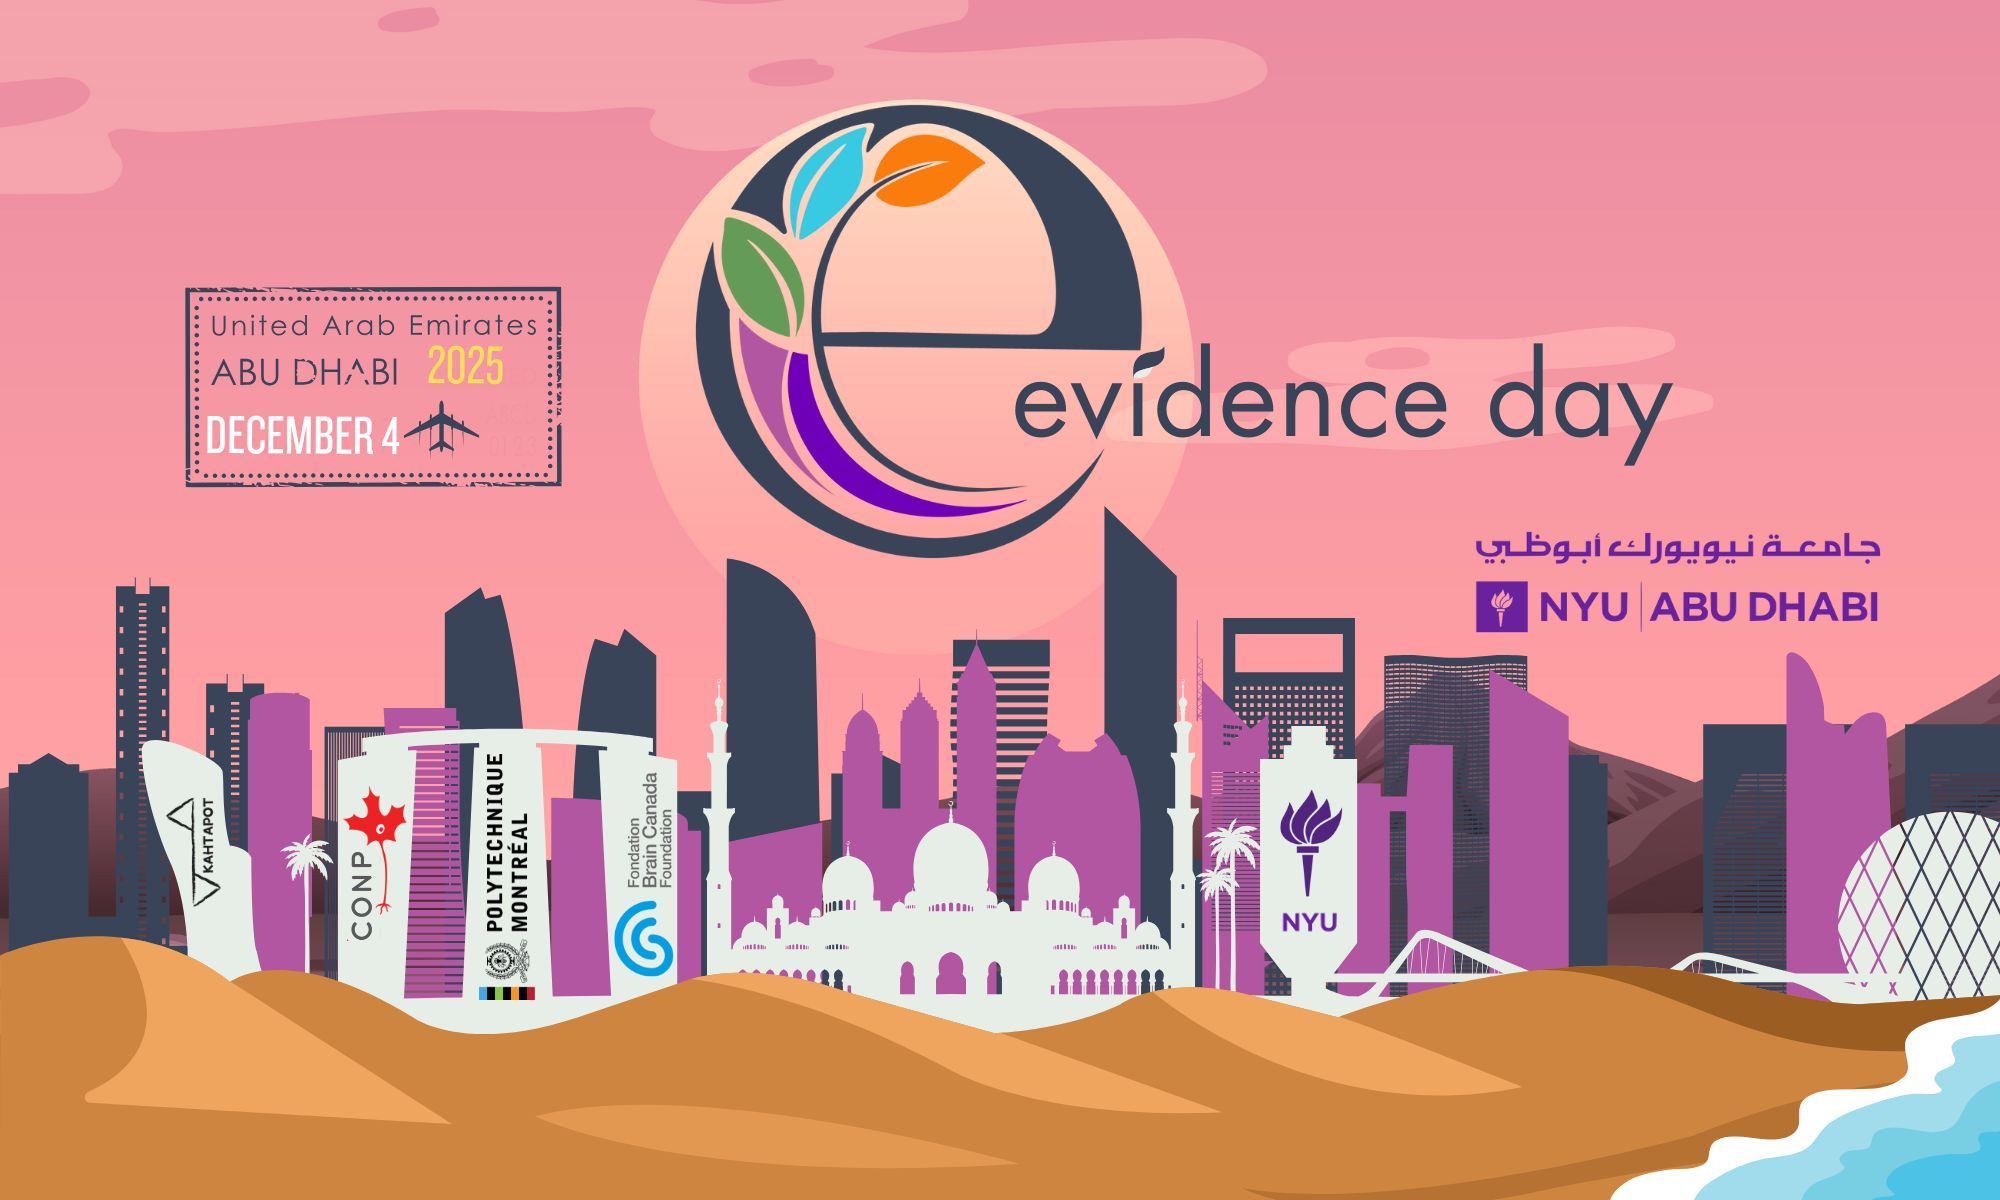
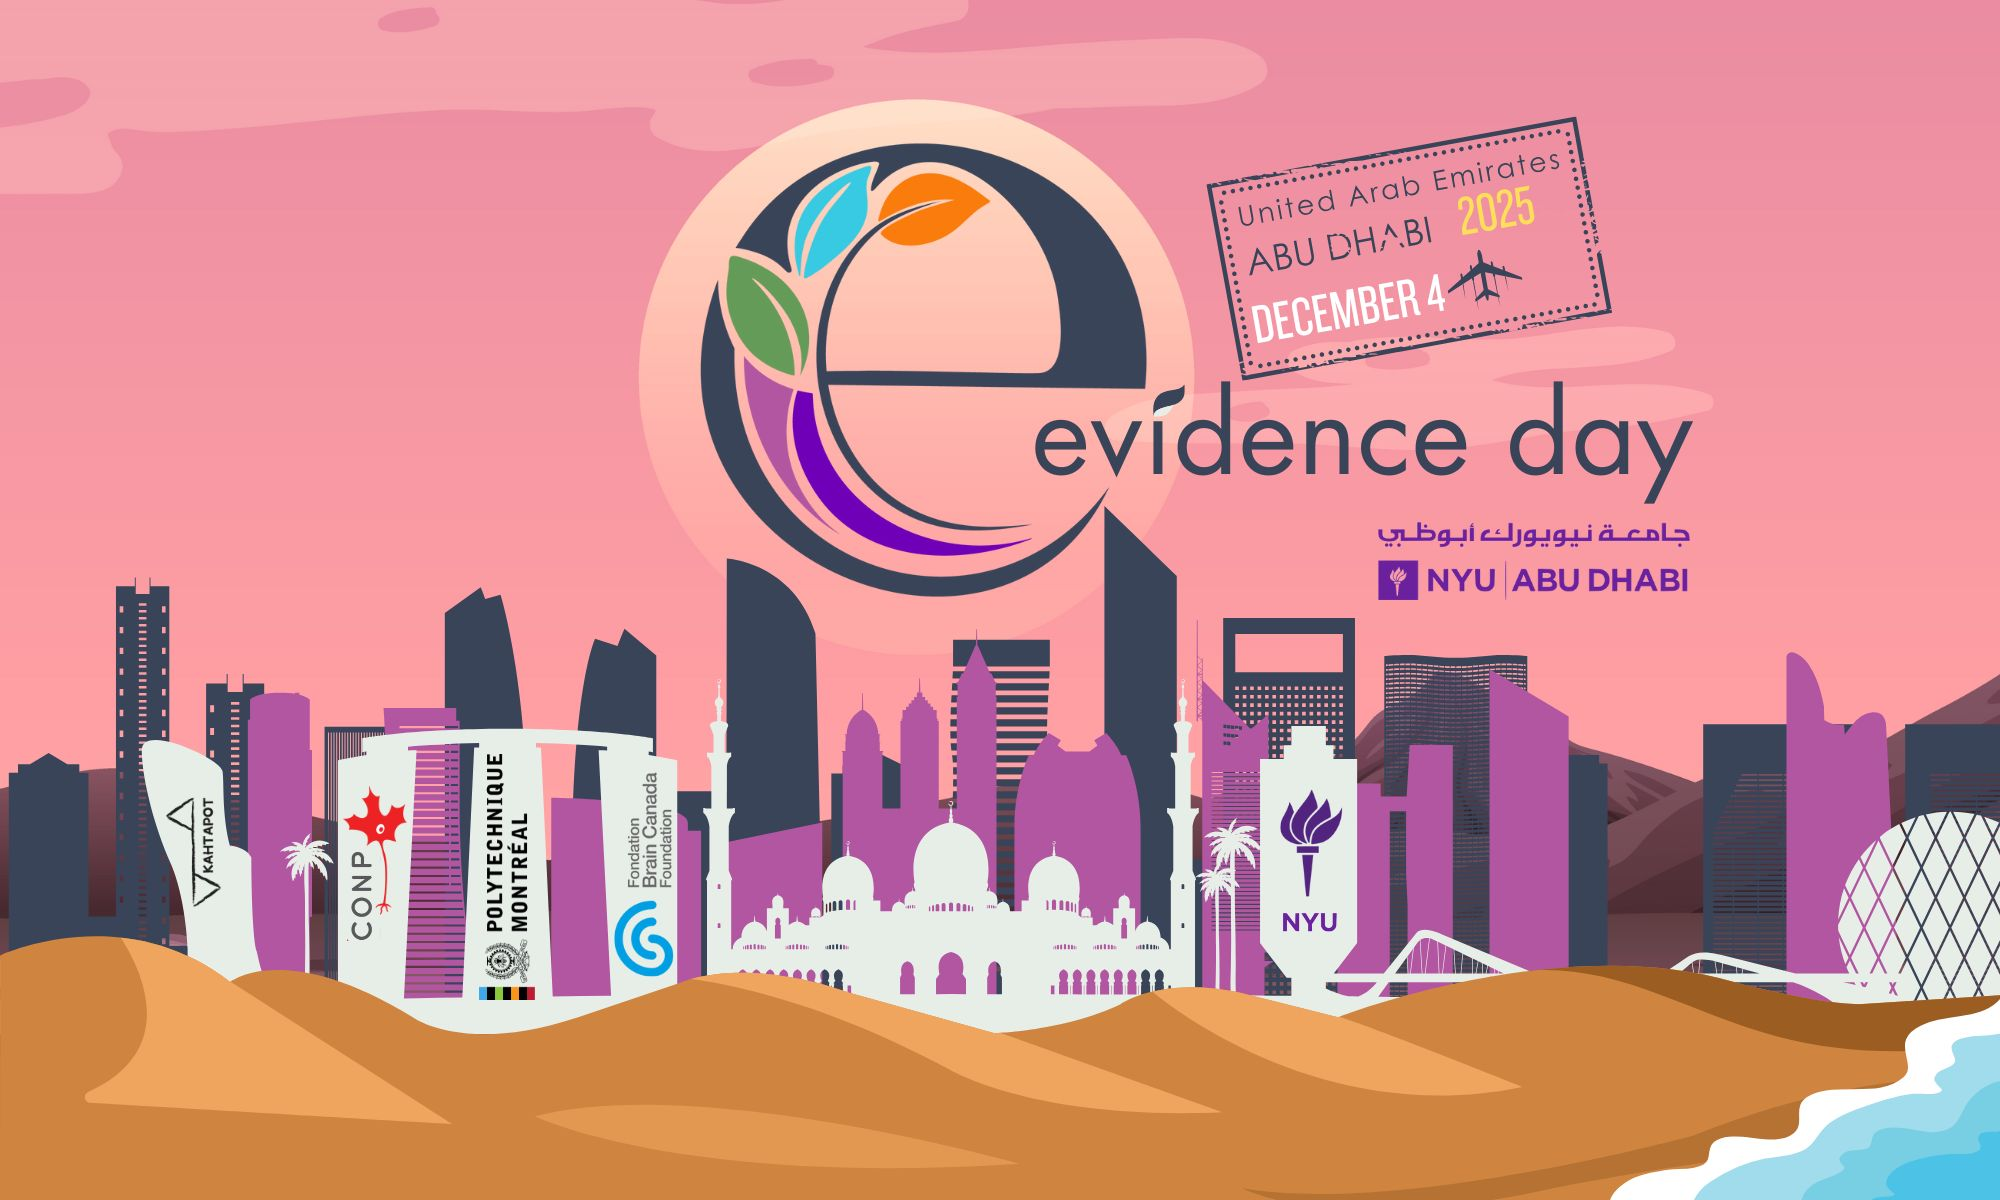
placeholder

Changed region(s): [[0.341, 0.0617, 0.961, 0.5242], [0.093, 0.2158, 0.279, 0.4317]]

diff --git a/stylesheets/css/main.css b/stylesheets/css/main.css
@@ -128,6 +128,7 @@ nav {
   top:0;
   left:0;
   background:#2e2e2e;
+  background-color: #394459;
 }
 
 nav ul {

diff --git a/_posts/2000-01-02-speakers.md b/_posts/2000-01-02-speakers.md
@@ -1,23 +1,23 @@
 ---
 title: "About"
-bg: "#8a3939"
+bg: "#c4921b"
 color: clrnew
 fa-icon: info-circle
 iconclr: neuro
 titleclr: neuro
 ---
 
-# NeuroLibre Day
+# Evidence Day
 
-<center><h3 style ="color: wheat;">A symposium to elevate reproducible publishing to new heights</h3></center>
+<center><h3 style ="color: wheat;">Unveiling the Evidence publishing platform</h3></center>
 
-#### 27 September 2024
+#### 4 December 2025
 
 <!-- <center><a class="waves-effect waves-light btn coral" style="border-color:wheat;" href="https://docs.google.com/forms/d/e/1FAIpQLSf9UEmPe238whlYtt8ntB9cq5SnCfhpKnpTQw9I9zLgMYJDdg/viewform" target="blank">CLICK HERE TO REGISTER</a></center> -->
 
-<p style ="text-align: center; font-weight: bold; font-size:24px;">This symposium will coincide with the beta release of NeuroLibre, an open-source server for hosting reproducible research objects.</p>
+<p style ="text-align: center; font-weight: bold; font-size:24px;">The event will take place in Abu Dhabi, with participation from our Evidence partners in Canada, Japan and Macedonia</p>
 
-<hr>
+<!-- <hr>
  <h3>Speakers</h3>
 
 <div class="team" style="margin-top:10px;">
@@ -38,7 +38,7 @@ titleclr: neuro
 
 <div>
 <div>
-<hr>
+<hr> -->
 
 <!-- <center>
  <h3>A sprint to push boundaries for collective creativity</h3>
